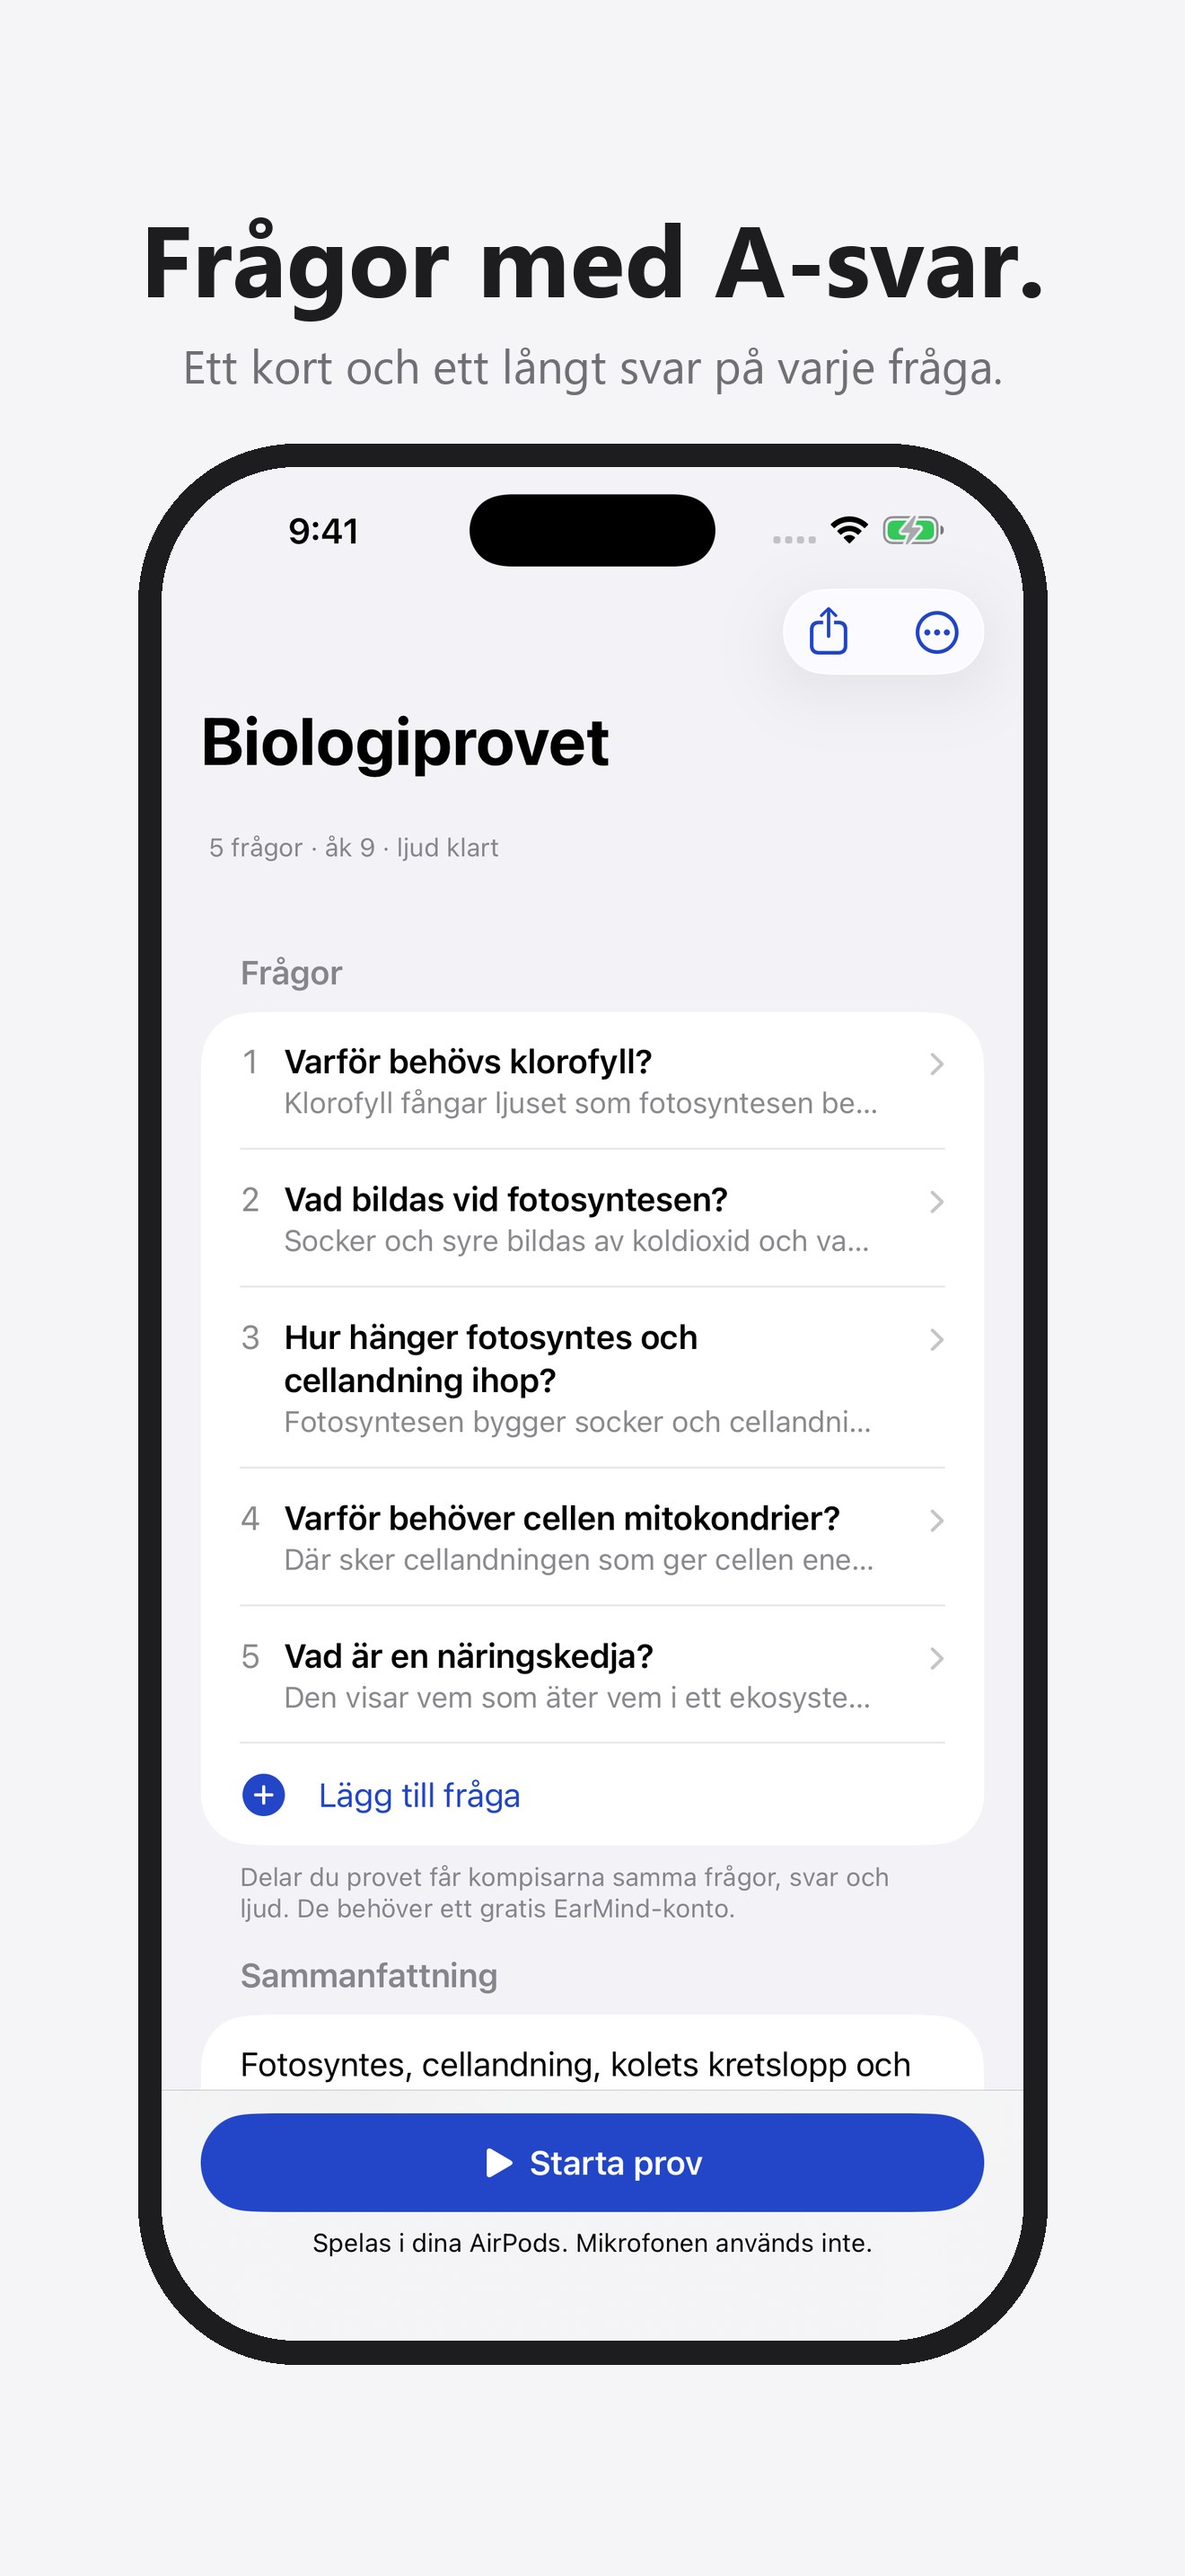
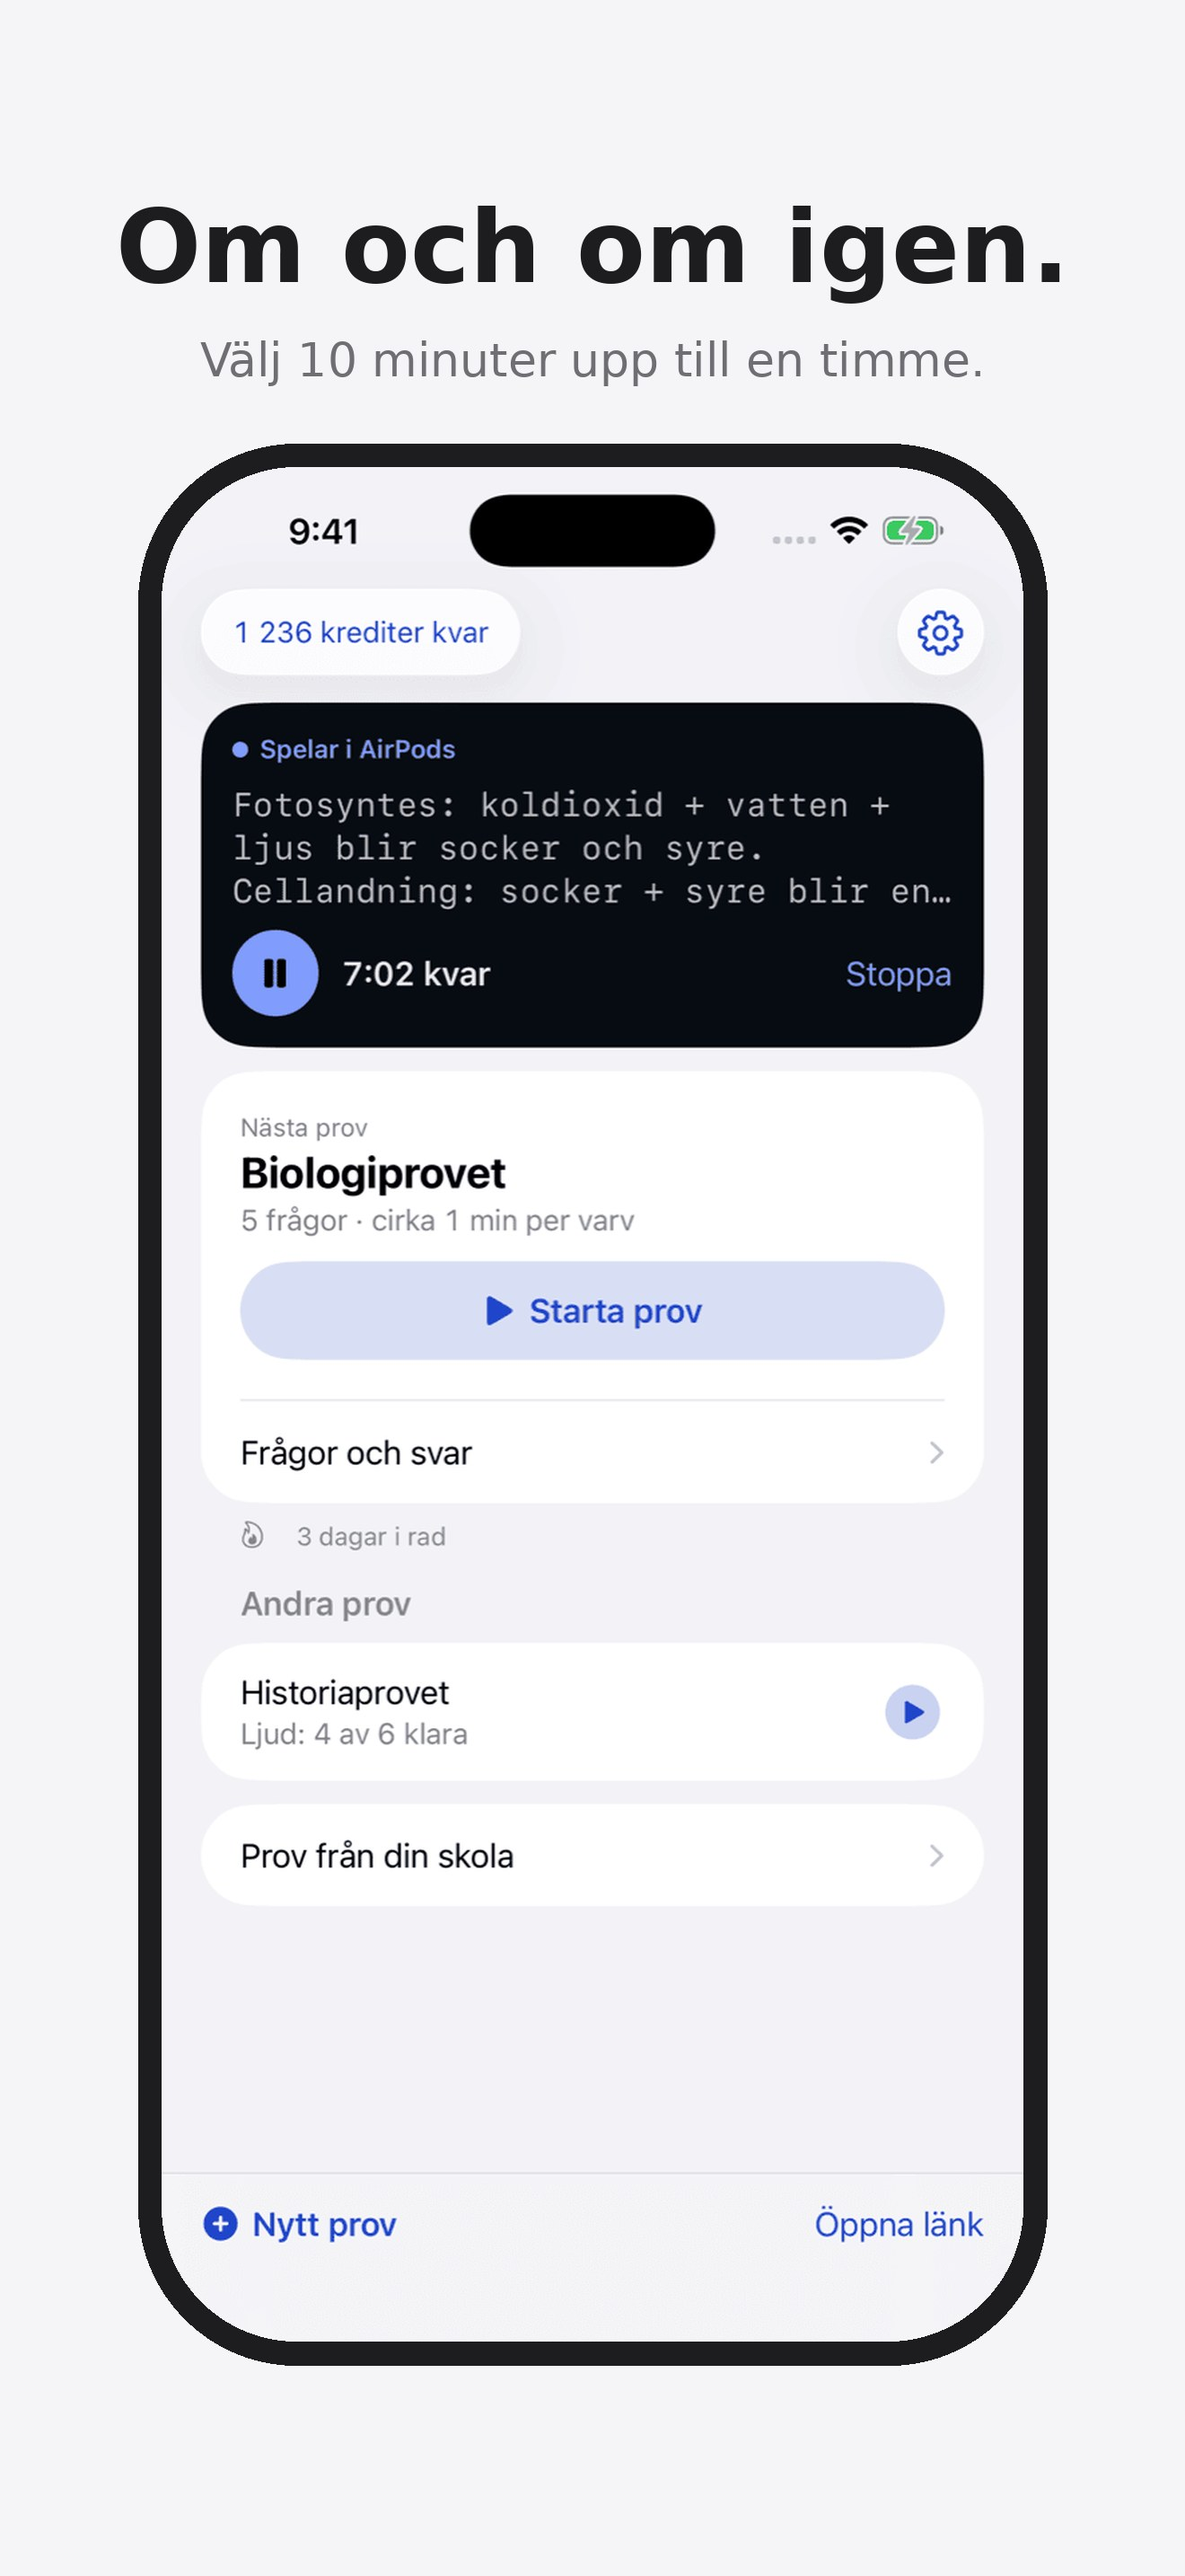
Kelly (moln) Ke74: App Store-förslag 69-1…5 efter nya första skärmen (Pro Max, nedskalade), site-check visar Ke74-steget [skip eval]
Claude-Session: https://claude.ai/code/session_01Pb1HG91PQFHjhJ97bHuAkn

diff --git a/docs/appstore/_src/appstore.py b/docs/appstore/_src/appstore.py
@@ -24,11 +24,12 @@ W, H = 1320, 2868
 
 # (scen, rubrik, rad under). Ordning enligt Ke56. Texten för trycken följer A90 (Arons ord).
 SHOTS = [
-    ("repMaterial", "Fota materialet.", "Sidor ur boken, bilder, PDF eller text."),
-    ("repList", "Frågor med A-svar.", "Ett kort och ett långt svar på varje fråga."),
-    ("repHome", "Starta prov.", "Frågorna läses upp i dina AirPods."),
-    ("repControlsDone", "Tryck för svaret.", "1 gång för A-svaret. 2 för ett kort. 3 för paus."),
-    ("repSchools", "Dela med klassen.", "Lägg till prov som kompisarna har gjort."),
+    # Ke74 (2026-11-17): nya första skärmen (D215) först. Inget om låst skärm (D209 inte provat på telefon).
+    ("repSayCredits", "Skriv. Lyssna.", "Det du skriver läses upp i dina hörlurar."),
+    ("repSayOnCard", "Om och om igen.", "Välj 10 minuter upp till en timme."),
+    ("repTextNew", "Fota boken.", "Frågor med svar, eller hela texten uppläst."),
+    ("repPlayAnswer", "Tryck för svaret.", "1 gång för långt svar, 2 för kort, 3 för paus."),
+    ("repTextPlay", "Följ texten.", "Meningen som läses är markerad."),
 ]
 
 

diff --git a/docs/appstore/README.md b/docs/appstore/README.md
@@ -6,16 +6,22 @@
 **Förberedelse. Inget är inlagt i App Store Connect och inget skickas in.** Att publicera eller skicka in görs bara
 efter Arons ja (CLAUDE.md). Ersätter utkastet i `docs/marketing/appstore/` (Ke25), som beskrev lyssningen före D142.
 
-## Bilder (6,9 tum, 1320 × 2868)
+## Bilder (6,9 tum, 1320 × 2868), Ke74 2026-11-17
 | # | Fil | Rubrik | Rad under | Scen i appen |
 |---|---|---|---|---|
-| 1 | `69-1.jpg` | Fota materialet. | Sidor ur boken, bilder, PDF eller text. | `repMaterial` |
-| 2 | `69-2.jpg` | Frågor med A-svar. | Ett kort och ett långt svar på varje fråga. | `repList` |
-| 3 | `69-3.jpg` | Starta prov. | Frågorna läses upp i dina AirPods. | `repHome` |
-| 4 | `69-4.jpg` | Tryck för svaret. | 1 gång för A-svaret. 2 för ett kort. 3 för paus. | `repControlsDone` |
-| 5 | `69-5.jpg` | Dela med klassen. | Lägg till prov som kompisarna har gjort. | `repSchools` |
+| 1 | `69-1.jpg` | Skriv. Lyssna. | Det du skriver läses upp i dina hörlurar. | `repSayCredits` |
+| 2 | `69-2.jpg` | Om och om igen. | Välj 10 minuter upp till en timme. | `repSayOnCard` |
+| 3 | `69-3.jpg` | Fota boken. | Frågor med svar, eller hela texten uppläst. | `repTextNew` |
+| 4 | `69-4.jpg` | Tryck för svaret. | 1 gång för långt svar, 2 för kort, 3 för paus. | `repPlayAnswer` |
+| 5 | `69-5.jpg` | Följ texten. | Meningen som läses är markerad. | `repTextPlay` |
 
-- **Skärmbilderna är exakta:** CI "Simulator screenshots" **43578038498** på **iPhone 17 Pro Max** (1320 × 2868,
+- **Förslag, inte slutliga:** skärmbilderna är från iPhone 17 Pro Max (grenen `kelly/screens-ke74-promax`, körning
+  44160416467, 5398a2b) men **nedskalade till 644 × 1400 av bildflödet** och uppskalade igen, så de är lite mjuka.
+  Slutliga bilder tas med "Simulator screenshots" på 17 Pro Max i full upplösning, och rubrikerna med SF Pro Display.
+  Rubrikerna här är DejaVu Sans (molnet).
+- Bild 1 visar appens rad "Du kan låsa telefonen. Det hörs i AirPods ändå." Den är **inte provad på telefon** (D209).
+  Provar Aron den inte före inskickning: ta bilden igen efter första Spela (raden visas då inte).
+- **Äldre bilder (Ke56/Ke62):** **Skärmbilderna är exakta:** CI "Simulator screenshots" **43578038498** på **iPhone 17 Pro Max** (1320 × 2868,
   main 508aeb2, efter A87, A83 och A92), inte uppskalade. **Rubrikerna är fortfarande Segoe UI**, eftersom SF Pro
   inte finns i Windows. Gör om dem med SF Pro Display på en Mac före inskickning (kommandot nedan).
 - Bild 5 visar Prov från din skola i stället för Dela-scenen, eftersom Dela bara syns som en symbol i verktygsraden.
